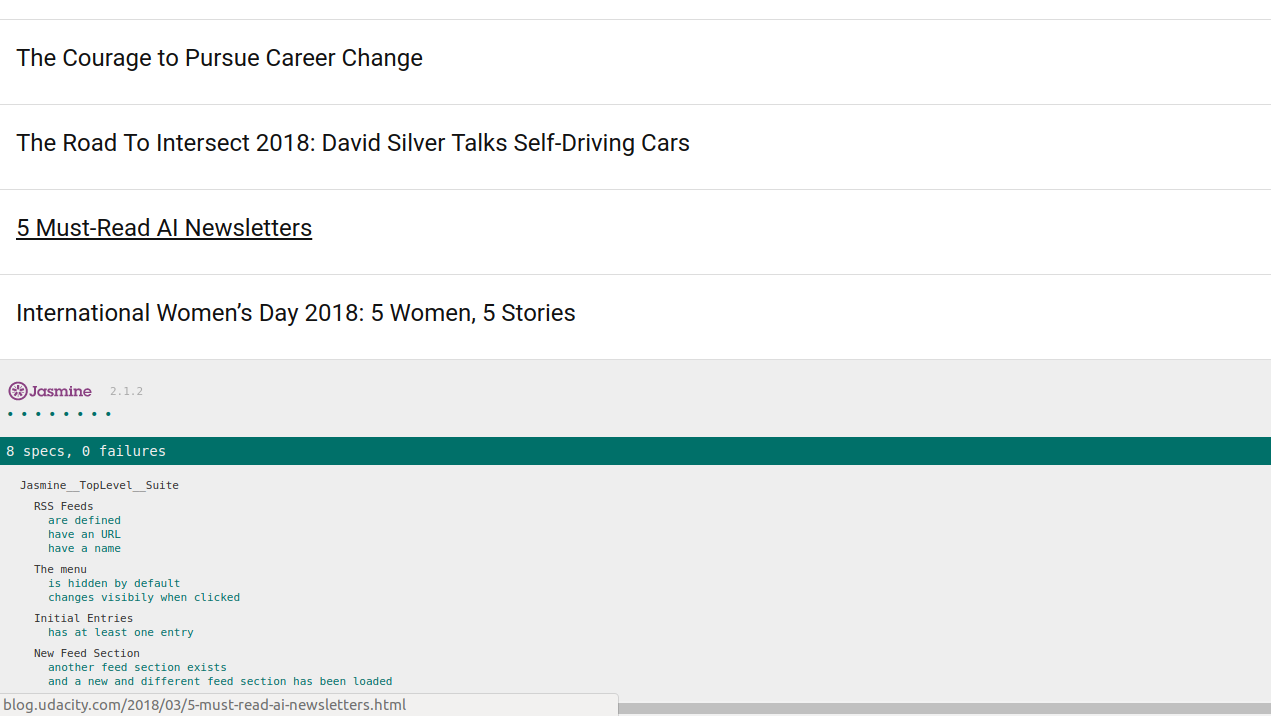
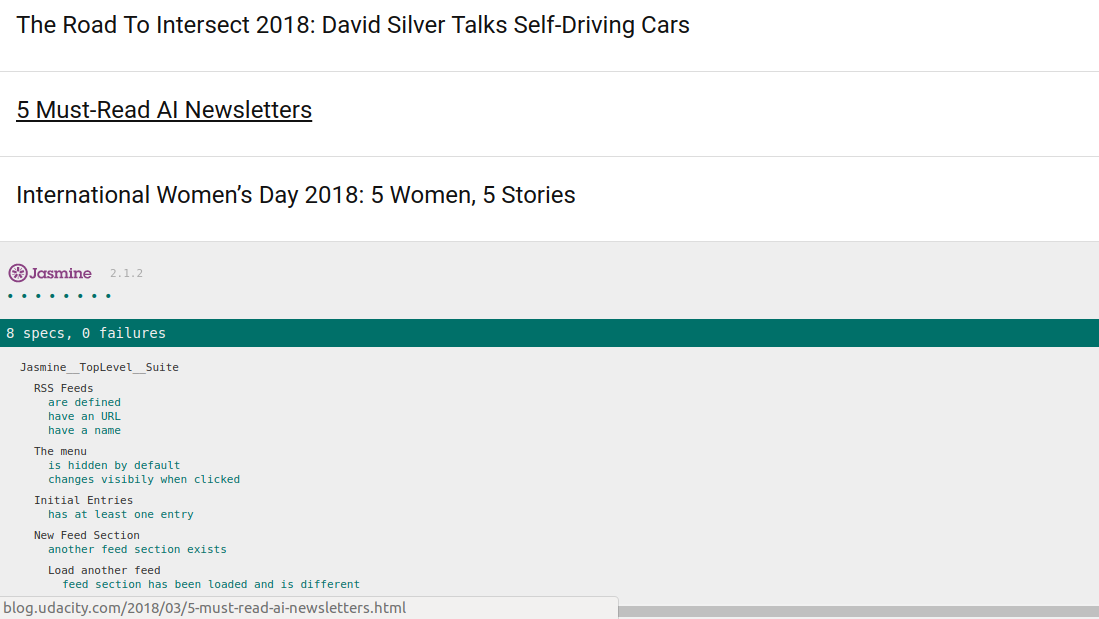
docs: readme changed in  accordance to new version

diff --git a/README.md b/README.md
@@ -51,8 +51,9 @@ They are devided in 4 test suites
       - Check the length of the entry class to be sure something has been loaded and displayed.
     - Loading a different feed
       - Check we have at least one different feed to load using the length of allFeeds array
-      - Load the first feed with a callback function (asynchronous) and temporarly store the .entry-link elements then load the second feed.
-      - Check the first url provided by each loaded feed is different using the jQuery .attr''href') .
+      - Load a different feed.
+        - Load the first feed with a callback function (asynchronous) and temporarly store the html of this feed then load the second feed.
+        - Check the html of each loaded feed is different.
 - Replace the http with https in the link and script tags to allow running the project on servers like github.io.
 
 ## Running the project
